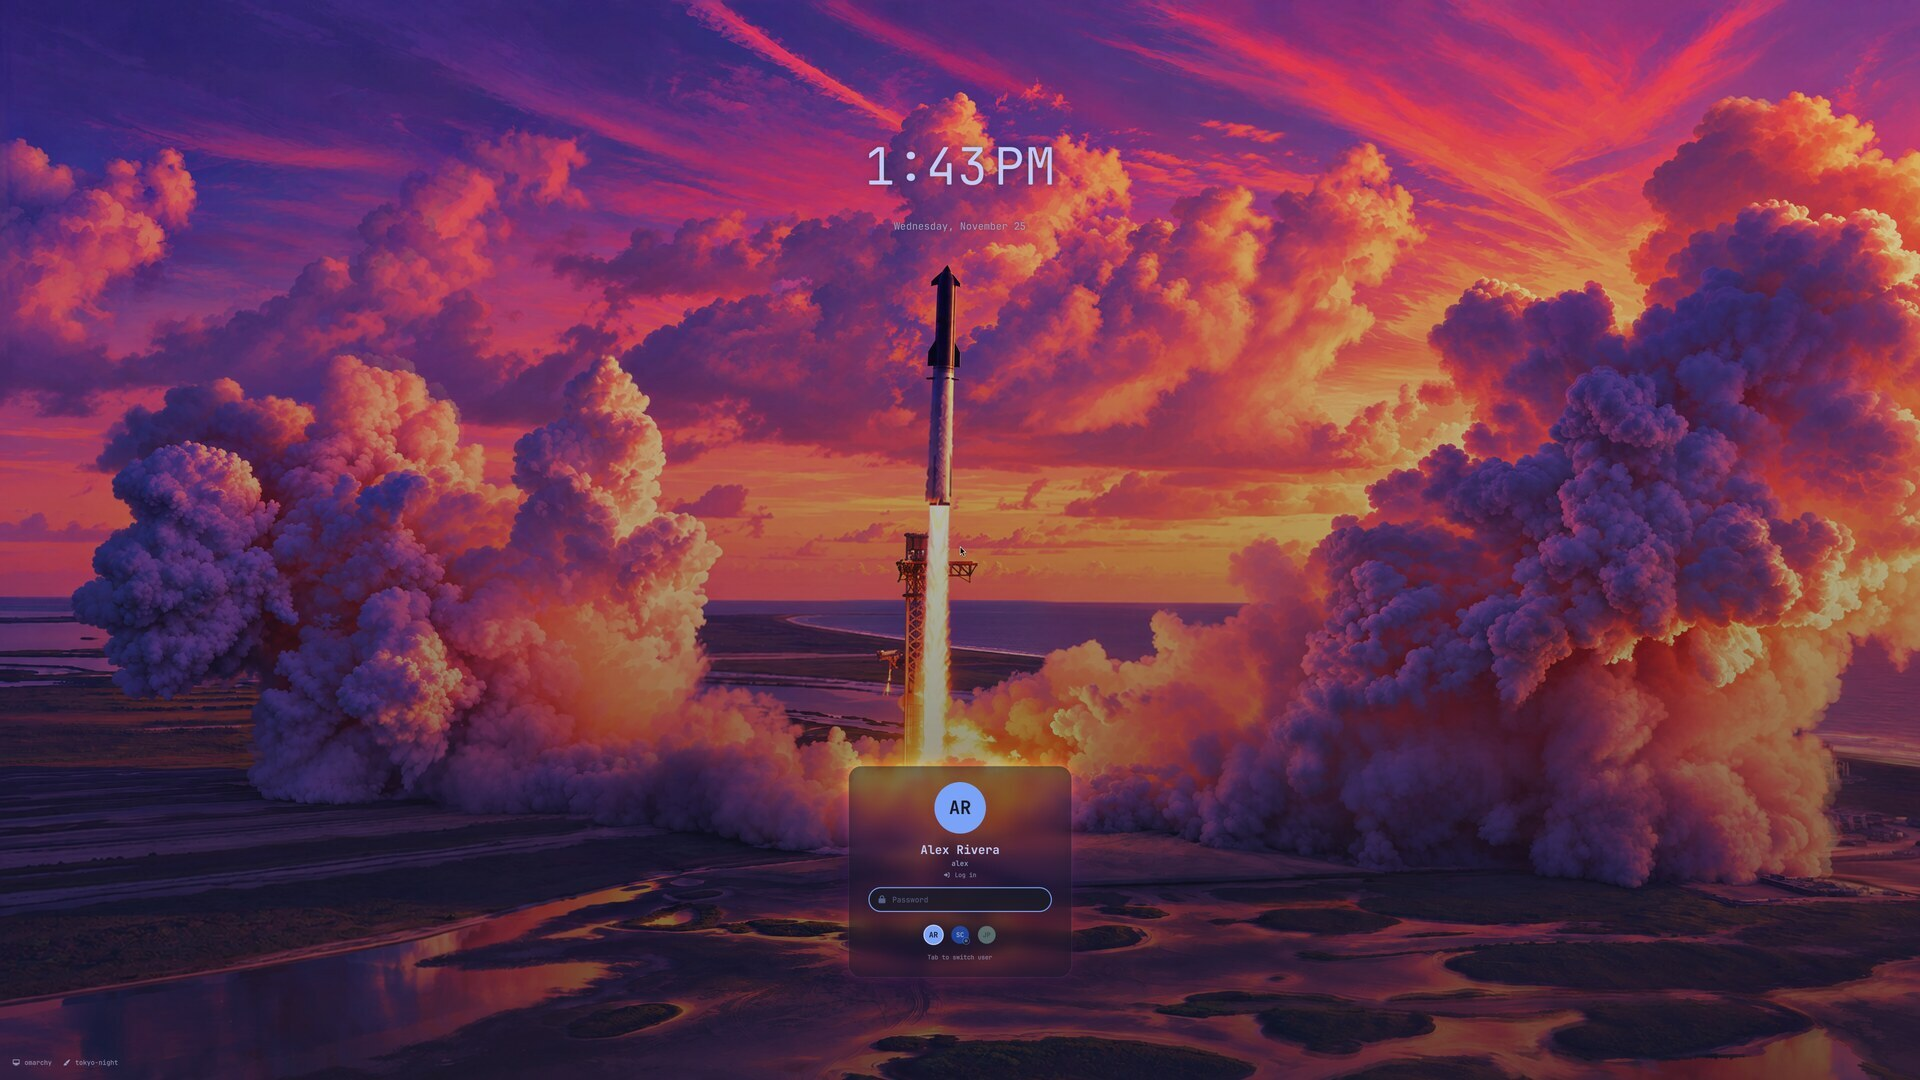
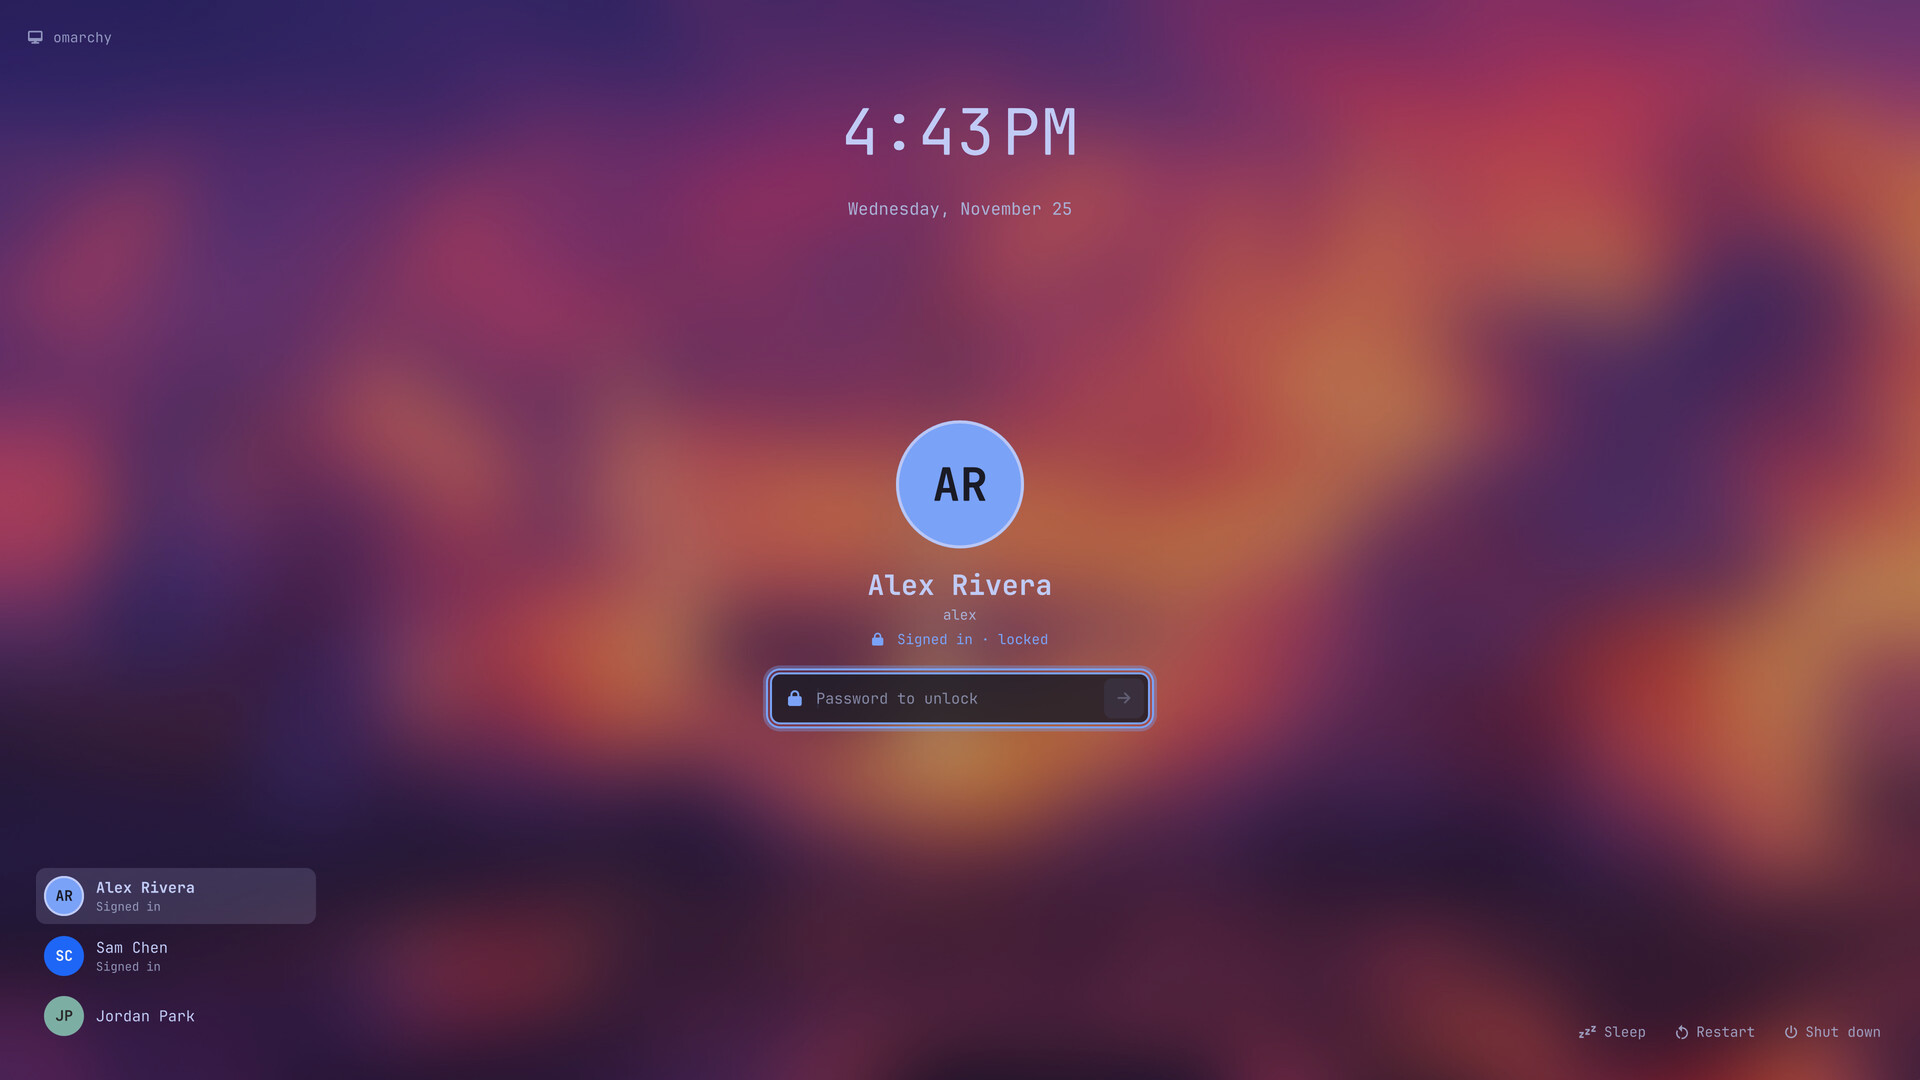
README: new screenshots and the Windows-style screens
Lock screen and login screens re-shot from demo accounts with Omarchy's
stock themes by scripts/screenshots (login screens in SDDM's test mode, the
lock screen off-screen from the real layout), so they can be remade after any
change. README describes the shared sign-in screen, the account list, power
buttons, keyboard use, screen-off and the lock's layout fallback.

Claude-Session: https://claude.ai/code/session_019DHqdFdGC7FgCK2UgBSkPe

diff --git a/theme/Main.qml b/theme/Main.qml
@@ -570,21 +570,21 @@ Rectangle {
 
     PowerButton {
       st: formStyle
-      visible: sddm.canSuspend
+      visible: sddm.canSuspend || root.demoUsers !== ""
       glyph: "\u{f04b2}"
       label: "Sleep"
       onClicked: sddm.suspend()
     }
     PowerButton {
       st: formStyle
-      visible: sddm.canReboot
+      visible: sddm.canReboot || root.demoUsers !== ""
       glyph: "\u{f0709}"
       label: "Restart"
       onClicked: sddm.reboot()
     }
     PowerButton {
       st: formStyle
-      visible: sddm.canPowerOff
+      visible: sddm.canPowerOff || root.demoUsers !== ""
       glyph: "\u{f0425}"
       label: "Shut down"
       hoverInk: root.cError

diff --git a/README.md b/README.md
@@ -2,17 +2,22 @@
 
 A multi-user login screen and lock screen for [Omarchy](https://omarchy.org). For computers that more than one person uses, or one person with separate accounts (work and personal, say).
 
-- **Each account looks like its own desktop.** The login screen shows the selected account's Omarchy background (video too, if you allow it) and colors itself from that account's theme. Switching accounts wipes to the next background with the same reveal the desktop uses.
+- **Works like Windows.** Your account in the middle, every account on the machine in the bottom-left, Sleep, Restart and Shut down in the bottom-right. The lock screen is the same screen: you sign back in right there, or pick another account to switch user while your session stays locked and running.
+- **Each account looks like its own desktop.** The login screen shows the selected account's Omarchy background, blurred (video too, if you allow it), and colors itself from that account's theme. Switching accounts wipes to the next background with the same reveal the desktop uses.
 - **Sized like the desktop.** Each account's monitor scale and Omarchy font size carry over to the login screen.
-- **Knows who is signed in.** Accounts with a session running read **Locked · resumes session**; the rest read **Log in**.
-- **Multi-user lock screen.** The lock shows who it belongs to, who else is signed in, and **Switch user**, which opens the login screen while your session stays locked. Coming back takes one password.
-- **One monitor.** Optionally show the login and lock forms on one monitor only and keep the rest black.
+- **Knows who is signed in.** Accounts with a session running say **Signed in**, straight from the system's session list.
+- **Keyboard friendly.** Tab moves through the password box, the accounts and the power buttons, with a clear focus ring; Up and Down pick accounts.
+- **One monitor.** Optionally show the login and lock screens on one monitor only and keep the rest black.
 - **One password at boot (optional).** On an encrypted disk, the disk password can also log you in once, so you type one password instead of two (see [security](#one-password-at-boot)).
 - **Settings in the Omarchy menu**, under **Setup > Login & Lock**, plus an `omarchy-greeter` command for the same and for managing accounts.
 
-| Tokyo Night account | Catppuccin Latte account, signed in | Gruvbox account |
+![The lock screen: the locked account in the middle with its password box, every account bottom-left, Sleep, Restart and Shut down bottom-right, over the account's blurred Tokyo Night background](docs/screenshots/lock.jpg)
+
+| Tokyo Night account | Catppuccin Latte account, signed in | Gruvbox account, not signed in |
 |---|---|---|
-| ![Login screen for an account with the Tokyo Night theme](docs/screenshots/login-alex.jpg) | ![Login screen for a signed-in account with the Catppuccin Latte theme, showing Locked · resumes session](docs/screenshots/login-sam-locked.jpg) | ![Login screen for an account with the Gruvbox theme](docs/screenshots/login-jordan.jpg) |
+| ![Login screen for a signed-in account with the Tokyo Night theme](docs/screenshots/login-alex.jpg) | ![Login screen for a signed-in account with the Catppuccin Latte theme, showing Signed in · locked](docs/screenshots/login-sam-locked.jpg) | ![Login screen for an account with the Gruvbox theme](docs/screenshots/login-jordan.jpg) |
+
+All four pictures use demo accounts and Omarchy's stock themes (`scripts/screenshots` makes them).
 
 <img src="docs/screenshots/menu.png" alt="Setup > Login & Lock in the Omarchy menu" width="276" align="right">
 
@@ -62,7 +67,7 @@ From the Omarchy menu: **Setup > Login & Lock > Accounts > Add**. Or in a termin
 omarchy-greeter user add
 ```
 
-It asks for the account name, the name to show on the login screen, whether the account should be an admin, and a password. The new account starts from Omarchy's defaults (`/etc/skel`), and Omarchy finishes setting it up at its first login. To sign in as it, lock your screen (<kbd>Super</kbd>+<kbd>Ctrl</kbd>+<kbd>L</kbd>), choose **Switch user**, and pick it.
+It asks for the account name, the name to show on the login screen, whether the account should be an admin, and a password. The new account starts from Omarchy's defaults (`/etc/skel`), and Omarchy finishes setting it up at its first login. To sign in as it, lock your screen (<kbd>Super</kbd>+<kbd>Ctrl</kbd>+<kbd>L</kbd>) and pick it in the account list, bottom-left.
 
 ## Admin rights
 
@@ -85,6 +90,7 @@ Every feature can be switched on or off. Machine-wide settings ask for an admin 
 | Monitor for the login and lock forms | Monitor | `omarchy-greeter monitor [focused\|all\|<name>]` | machine | all monitors |
 | One password at boot, for your account | Boot Login | `omarchy-greeter boot-pass [on\|off] [account]` | machine | off |
 | Video backgrounds on the login screen | Video Login | `omarchy-greeter video [on\|off]` | machine | off |
+| Login screen turns the displays off after | | `omarchy-greeter screen-off <seconds>` (0: never) | machine | 120 seconds |
 | Multi-user lock screen | User Lock | `omarchy-greeter lock [on\|off]` | you | on |
 | Your look on the login screen | My Look | `omarchy-greeter publish [on\|off]` | you | on |
 | Updates with `omarchy update` | | `omarchy-greeter auto-update [on\|off]` | you | on |
@@ -122,9 +128,11 @@ It works by adding one line to the top of `/etc/pam.d/sddm` (`pam_exec` of `/usr
 - **The login screen** is an SDDM theme (`theme/`). SDDM runs it as the `sddm` user, who cannot read home folders. So each account publishes its look (a screen-sized still of its background, theme colors, font size, monitor layout, avatar from `~/.face`) to its own private folder, `/var/lib/omarchy-greeter/<account>/`. This happens from a systemd user unit whenever the theme, background, monitors or font change, and at boot for every account (`omarchy-greeter-sync`).
 - **The login screen only reads checked copies.** The login screen receives every password, so it never opens an account's own files. A root service (`publish-view`) checks each published file (only regular files of a capped size, text matched against what is expected, display sizes parsed and rebuilt), re-encodes images as an unprivileged user, and copies the result into `/var/lib/omarchy-greeter/.view/`, readable only by the login screen. One account cannot freeze, crash or read files through the login screen another account uses. Video backgrounds are the exception, which is why they are off by default: when allowed, a video is repackaged as an unprivileged user, but the login screen still decodes the account's video stream.
 - **The login screen's compositor** uses the same monitor modes as the desktop and stays in SDR, so moving between them causes no monitor blackout.
-- **The lock screen** is Omarchy's own lock plugin, cloned into `~/.config/omarchy/plugins/<account>.lock` and patched (`lib/patch-lock.py`). The clone is rebuilt from Omarchy's current lock before the desktop starts whenever Omarchy's lock or the patch changes, so Omarchy's lock fixes keep arriving. If an Omarchy update ever changes the lock so much that the patch no longer fits, you get Omarchy's own lock and a notification. Nothing breaks.
+- **The lock screen** is Omarchy's own lock plugin, cloned into `~/.config/omarchy/plugins/<account>.lock` and patched (`lib/patch-lock.py`): Omarchy's lock logic (password checks, fingerprint, idle blanking) stays as it is, and only the layout is ours (`lock/GreeterLockView.qml`, sharing the login screen's form in `theme/`). The clone is rebuilt from Omarchy's current lock before the desktop starts whenever Omarchy's lock or the patch changes, so Omarchy's lock fixes keep arriving. If our layout fails to load, Omarchy's own layout shows instead; if an Omarchy update ever changes the lock so much that the patch no longer fits, or the patched lock does not start, you get Omarchy's own lock and a notification. You are never left unlocked.
+- **Signed in** comes from logind: a root service refreshes it whenever a session starts or ends (`omarchy-greeter-sessions.path`).
+- **Backgrounds are blurred once**, when an account publishes a new one, not on every frame; that keeps the screens free of banding and seams.
 - **A session out of sight is always locked.** If another account or the login screen comes to the front while a session is unlocked, that session locks itself (`omarchy-greeter-guard`, which works with either lock screen).
-- **Switching back takes one password.** When you log back into your locked session from the login screen, SDDM asks logind to unlock it, and the lock screen follows once your session is in front again.
+- **Switching back takes one password.** When you log back into your locked session from the login screen, SDDM asks logind to unlock it, and the lock screen follows once your session is in front again. Your own lock screen checks your password itself, as Omarchy's does, so unlocking where you left off never leaves your session.
 
 ## Development
 
@@ -136,6 +144,8 @@ sed -i 's|^dataDir=.*|dataDir=/path/to/sample-looks|' /tmp/greeter-test/theme.co
 QML_XHR_ALLOW_FILE_READ=1 QML_XHR_ALLOW_FILE_WRITE=1 \
   sddm-greeter-qt6 --test-mode --theme /tmp/greeter-test
 ```
+
+`scripts/screenshots` remakes the README pictures from demo accounts (Omarchy's stock themes, never a real account): the login screens in SDDM's test mode on the focused monitor, the lock screen off-screen.
 
 `make check` runs the static checks (bash syntax, shellcheck, QML and Lua syntax) and `make test` the tests, which run in temporary folders with stand-ins for root and Omarchy, so they never touch the real system. Both run on every push, and weekly against Omarchy's latest lock screen, so an Omarchy change that breaks the patch shows up before users hit it. Set `OMARCHY_LOCK_SOURCES=/path/to/omarchy/shell/plugins/lock` to also test the patch against another copy of the lock.
 
